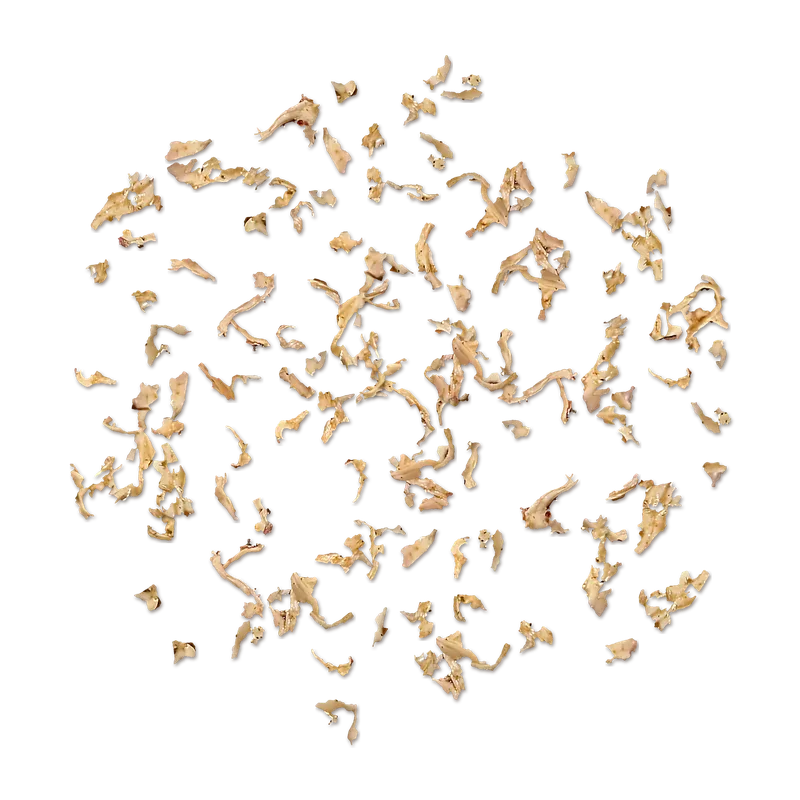
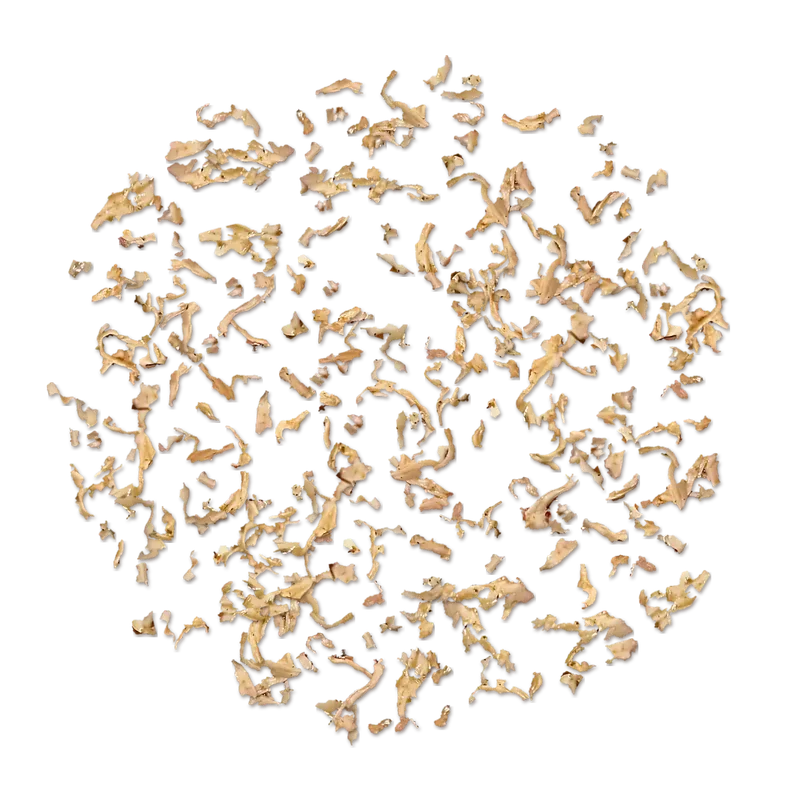
Pizza: capa nueva de pollo desmechado
Claude-Session: https://claude.ai/code/session_01DxqiBbKBv4wDbq6rgi9yCV

Changed region(s): [[0.0625, 0.0938, 0.9375, 0.9375]]

diff --git a/Pages/pizza.html b/Pages/pizza.html
@@ -7,8 +7,8 @@
 <link rel="icon" href="../IMG/Logo-taz.png" type="image/png">
 <title>Pizza · TAZ Fast Food</title>
 <link href="https://fonts.googleapis.com/css2?family=Anton&family=Nunito:wght@500;700;800&display=swap" rel="stylesheet">
-<link rel="stylesheet" href="../Styles/pizza.css?v=30">
-<link rel="stylesheet" href="../Styles/checkout.css?v=30">
+<link rel="stylesheet" href="../Styles/pizza.css?v=31">
+<link rel="stylesheet" href="../Styles/checkout.css?v=31">
 </head>
 <body>
 <header class="top">
@@ -72,16 +72,16 @@
     <section class="step">
       <h3><i>1</i><span id="espTitle">Especialidad</span></h3>
       <div class="opts opts-base">
-      <button class="op" type="button" data-g="base" data-i="0" data-img="../IMG/Pizzas/hawaiana.webp?v=30" data-pz="13,19,24" data-tp="🍍 🧀 🥓" aria-pressed="false"><em>🍕</em><span class="tx"><b>Hawaiana</b><small>Piña, queso rayado, jamón (opcional cerezas)</small></span><span class="pr">$13.00</span></button>
-      <button class="op" type="button" data-g="base" data-i="1" data-img="../IMG/Pizzas/pepperoni.webp?v=30" data-pz="13,19,24" data-tp="🔴 🧀 🥓" aria-pressed="false"><em>🍕</em><span class="tx"><b>Pepperoni</b><small>Pepperoni, queso y jamón</small></span><span class="pr">$13.00</span></button>
-      <button class="op" type="button" data-g="base" data-i="2" data-img="../IMG/Pizzas/tropical.webp?v=30" data-pz="15,22,26" data-tp="🍍 🍒 🍑 🥓 🧀" aria-pressed="false"><em>🍕</em><span class="tx"><b>Tropical</b><small>Piña, cereza, durazno, jamón, queso y salsa de la casa</small></span><span class="pr">$15.00</span></button>
-      <button class="op" type="button" data-g="base" data-i="3" data-img="../IMG/Pizzas/ay-dios-mio.webp?v=30" data-pz="15,22,28" data-tp="🍗 🍄 🧀" aria-pressed="false"><em>🍕</em><span class="tx"><b>Ay Dios Mío</b><small>Pollo desmechado, champiñones, jamón, queso rayado y salsa de la casa</small></span><span class="pr">$15.00</span></button>
-      <button class="op" type="button" data-g="base" data-i="4" data-img="../IMG/Pizzas/californiana.webp?v=30" data-pz="16,24,29" data-tp="🍗 🍄 🦐 🥓 🧀 🌶" aria-pressed="false"><em>🍕</em><span class="tx"><b>Californiana</b><small>Pollo desmechado, champiñones, camarones, jamón, pimentón rojo y verde, queso rayado y salsa de la casa</small></span><span class="pr">$16.00</span></button>
-      <button class="op" type="button" data-g="base" data-i="5" data-img="../IMG/Pizzas/mexicana.webp?v=30" data-pz="16,24,29" data-tp="🥩 🥓 🧀 🌶 🧅" aria-pressed="false"><em>🍕</em><span class="tx"><b>Mexicana</b><small>Carne desmechada, jamón, queso rayado, pimentón, cebolla, salsa picosa de la casa y tocineta</small></span><span class="pr">$16.00</span></button>
-      <button class="op" type="button" data-g="base" data-i="6" data-img="../IMG/Pizzas/camarones.webp?v=30" data-pz="20,26,32" data-tp="🦐 🥓 🧀 🌶" aria-pressed="false"><em>🍕</em><span class="tx"><b>Camarones</b><small>Camarones, jamón, queso rayado, pimentón y salsa de la casa</small></span><span class="pr">$20.00</span></button>
-      <button class="op" type="button" data-g="base" data-i="7" data-img="../IMG/Pizzas/la-4k.webp?v=30" data-pz="22,28,34" data-tp="🥓 🌭 🧀 🥩" aria-pressed="false"><em>🍕</em><span class="tx"><b>La 4K</b><small>Jamón, carne de res, pollo, chorizo, tocino y queso rayado</small></span><span class="pr">$22.00</span></button>
-      <button class="op" type="button" data-g="base" data-i="8" data-img="../IMG/Pizzas/legendaria.webp?v=30" data-pz="16,22,28" data-tp="🥩 🌽 🥓 🌶 🧀" aria-pressed="false"><em>🍕</em><span class="tx"><b>Legendaria</b><small>Carne molida, maíz, tocino, pimiento, jamón, queso y salsa de la casa</small></span><span class="pr">$16.00</span></button>
-      <button class="op cartel" type="button" data-g="base" data-i="9" data-img="../IMG/Pizzas/base-queso.webp?v=30" data-pz="10,15,19" data-custom="1" aria-pressed="false"><em><i class="blank" aria-hidden="true"></i></em><span class="tx"><span class="tag">¡Nueva!</span><b>Pizza a tu gusto</b><small>Empieza con una pizza en blanco (masa y queso) y ponle todos los ingredientes que quieras.</small></span><span class="pr">$10.00</span></button>
+      <button class="op" type="button" data-g="base" data-i="0" data-img="../IMG/Pizzas/hawaiana.webp?v=31" data-pz="13,19,24" data-tp="🍍 🧀 🥓" aria-pressed="false"><em>🍕</em><span class="tx"><b>Hawaiana</b><small>Piña, queso rayado, jamón (opcional cerezas)</small></span><span class="pr">$13.00</span></button>
+      <button class="op" type="button" data-g="base" data-i="1" data-img="../IMG/Pizzas/pepperoni.webp?v=31" data-pz="13,19,24" data-tp="🔴 🧀 🥓" aria-pressed="false"><em>🍕</em><span class="tx"><b>Pepperoni</b><small>Pepperoni, queso y jamón</small></span><span class="pr">$13.00</span></button>
+      <button class="op" type="button" data-g="base" data-i="2" data-img="../IMG/Pizzas/tropical.webp?v=31" data-pz="15,22,26" data-tp="🍍 🍒 🍑 🥓 🧀" aria-pressed="false"><em>🍕</em><span class="tx"><b>Tropical</b><small>Piña, cereza, durazno, jamón, queso y salsa de la casa</small></span><span class="pr">$15.00</span></button>
+      <button class="op" type="button" data-g="base" data-i="3" data-img="../IMG/Pizzas/ay-dios-mio.webp?v=31" data-pz="15,22,28" data-tp="🍗 🍄 🧀" aria-pressed="false"><em>🍕</em><span class="tx"><b>Ay Dios Mío</b><small>Pollo desmechado, champiñones, jamón, queso rayado y salsa de la casa</small></span><span class="pr">$15.00</span></button>
+      <button class="op" type="button" data-g="base" data-i="4" data-img="../IMG/Pizzas/californiana.webp?v=31" data-pz="16,24,29" data-tp="🍗 🍄 🦐 🥓 🧀 🌶" aria-pressed="false"><em>🍕</em><span class="tx"><b>Californiana</b><small>Pollo desmechado, champiñones, camarones, jamón, pimentón rojo y verde, queso rayado y salsa de la casa</small></span><span class="pr">$16.00</span></button>
+      <button class="op" type="button" data-g="base" data-i="5" data-img="../IMG/Pizzas/mexicana.webp?v=31" data-pz="16,24,29" data-tp="🥩 🥓 🧀 🌶 🧅" aria-pressed="false"><em>🍕</em><span class="tx"><b>Mexicana</b><small>Carne desmechada, jamón, queso rayado, pimentón, cebolla, salsa picosa de la casa y tocineta</small></span><span class="pr">$16.00</span></button>
+      <button class="op" type="button" data-g="base" data-i="6" data-img="../IMG/Pizzas/camarones.webp?v=31" data-pz="20,26,32" data-tp="🦐 🥓 🧀 🌶" aria-pressed="false"><em>🍕</em><span class="tx"><b>Camarones</b><small>Camarones, jamón, queso rayado, pimentón y salsa de la casa</small></span><span class="pr">$20.00</span></button>
+      <button class="op" type="button" data-g="base" data-i="7" data-img="../IMG/Pizzas/la-4k.webp?v=31" data-pz="22,28,34" data-tp="🥓 🌭 🧀 🥩" aria-pressed="false"><em>🍕</em><span class="tx"><b>La 4K</b><small>Jamón, carne de res, pollo, chorizo, tocino y queso rayado</small></span><span class="pr">$22.00</span></button>
+      <button class="op" type="button" data-g="base" data-i="8" data-img="../IMG/Pizzas/legendaria.webp?v=31" data-pz="16,22,28" data-tp="🥩 🌽 🥓 🌶 🧀" aria-pressed="false"><em>🍕</em><span class="tx"><b>Legendaria</b><small>Carne molida, maíz, tocino, pimiento, jamón, queso y salsa de la casa</small></span><span class="pr">$16.00</span></button>
+      <button class="op cartel" type="button" data-g="base" data-i="9" data-img="../IMG/Pizzas/base-queso.webp?v=31" data-pz="10,15,19" data-custom="1" aria-pressed="false"><em><i class="blank" aria-hidden="true"></i></em><span class="tx"><span class="tag">¡Nueva!</span><b>Pizza a tu gusto</b><small>Empieza con una pizza en blanco (masa y queso) y ponle todos los ingredientes que quieras.</small></span><span class="pr">$10.00</span></button>
       </div>
     </section>
     <section class="step">
@@ -95,14 +95,14 @@
       <div class="catpanel" data-cat="pro" hidden>
         <div class="cathead"><button class="back" type="button">‹ Volver</button><b>🍗 Proteínas</b></div>
         <div class="opts opts-ex">
-          <button class="op" type="button" data-g="ex" data-i="0" data-layer="../IMG/Toppings/capas/queso.webp?v=30" data-p="2" data-cat="pro" aria-pressed="false"><em>🧀</em><span class="tx"><b>Queso extra</b></span><span class="pr">+$2.00</span></button>
-          <button class="op" type="button" data-g="ex" data-i="1" data-layer="../IMG/Toppings/capas/jamon.webp?v=30" data-p="2" data-cat="pro" aria-pressed="false"><em>🍖</em><span class="tx"><b>Jamón</b></span><span class="pr">+$2.00</span></button>
+          <button class="op" type="button" data-g="ex" data-i="0" data-layer="../IMG/Toppings/capas/queso.webp?v=31" data-p="2" data-cat="pro" aria-pressed="false"><em>🧀</em><span class="tx"><b>Queso extra</b></span><span class="pr">+$2.00</span></button>
+          <button class="op" type="button" data-g="ex" data-i="1" data-layer="../IMG/Toppings/capas/jamon.webp?v=31" data-p="2" data-cat="pro" aria-pressed="false"><em>🍖</em><span class="tx"><b>Jamón</b></span><span class="pr">+$2.00</span></button>
           <button class="op" type="button" data-g="ex" data-i="2" data-p="2" data-cat="pro" aria-pressed="false"><em>🥓</em><span class="tx"><b>Tocineta</b></span><span class="pr">+$2.00</span></button>
-          <button class="op" type="button" data-g="ex" data-i="3" data-layer="../IMG/Toppings/capas/pepperoni.webp?v=30" data-p="2" data-cat="pro" aria-pressed="false"><em>🔴</em><span class="tx"><b>Pepperoni</b></span><span class="pr">+$2.00</span></button>
-          <button class="op" type="button" data-g="ex" data-i="4" data-layer="../IMG/Toppings/capas/pollo-desmechado.webp?v=30" data-p="2.5" data-cat="pro" aria-pressed="false"><em>🍗</em><span class="tx"><b>Pollo desmechado</b></span><span class="pr">+$2.50</span></button>
+          <button class="op" type="button" data-g="ex" data-i="3" data-layer="../IMG/Toppings/capas/pepperoni.webp?v=31" data-p="2" data-cat="pro" aria-pressed="false"><em>🔴</em><span class="tx"><b>Pepperoni</b></span><span class="pr">+$2.00</span></button>
+          <button class="op" type="button" data-g="ex" data-i="4" data-layer="../IMG/Toppings/capas/pollo-desmechado.webp?v=31" data-p="2.5" data-cat="pro" aria-pressed="false"><em>🍗</em><span class="tx"><b>Pollo desmechado</b></span><span class="pr">+$2.50</span></button>
           <button class="op" type="button" data-g="ex" data-i="5" data-p="2.5" data-cat="pro" aria-pressed="false"><em>🥩</em><span class="tx"><b>Carne desmechada</b></span><span class="pr">+$2.50</span></button>
-          <button class="op" type="button" data-g="ex" data-i="6" data-layer="../IMG/Toppings/capas/carne-molida.webp?v=30" data-p="2.5" data-cat="pro" aria-pressed="false"><em>🧆</em><span class="tx"><b>Carne molida</b></span><span class="pr">+$2.50</span></button>
-          <button class="op" type="button" data-g="ex" data-i="7" data-layer="../IMG/Toppings/capas/chorizo.webp?v=30" data-p="2" data-cat="pro" aria-pressed="false"><em><img class="ic" src="../IMG/Toppings/chorizo.webp?v=30" alt=""></em><span class="tx"><b>Chorizo</b></span><span class="pr">+$2.00</span></button>
+          <button class="op" type="button" data-g="ex" data-i="6" data-layer="../IMG/Toppings/capas/carne-molida.webp?v=31" data-p="2.5" data-cat="pro" aria-pressed="false"><em>🧆</em><span class="tx"><b>Carne molida</b></span><span class="pr">+$2.50</span></button>
+          <button class="op" type="button" data-g="ex" data-i="7" data-layer="../IMG/Toppings/capas/chorizo.webp?v=31" data-p="2" data-cat="pro" aria-pressed="false"><em><img class="ic" src="../IMG/Toppings/chorizo.webp?v=31" alt=""></em><span class="tx"><b>Chorizo</b></span><span class="pr">+$2.00</span></button>
           <button class="op" type="button" data-g="ex" data-i="8" data-p="3.5" data-cat="pro" aria-pressed="false"><em>🦐</em><span class="tx"><b>Camarones</b></span><span class="pr">+$3.50</span></button>
         </div>
       </div>
@@ -150,9 +150,9 @@
 </aside>
 <template id="tpl-item"><div class="it"><div class="row"><b class="nm"></b><span class="pt"></span></div><p class="ln"></p><div class="row"><div class="qty"><button data-c="-1" aria-label="Menos">−</button><span class="qn"></span><button data-c="1" aria-label="Más">+</button></div><button class="x" data-c="del">Quitar</button></div></div></template>
 <div class="toast" id="toast" role="status">Agregado al carrito</div>
-<script src="../JS/cart.js?v=30"></script>
-<script src="../JS/pizza.js?v=30"></script>
-<script src="../JS/toppings.js?v=30"></script>
-<script src="../JS/checkout.js?v=30"></script>
+<script src="../JS/cart.js?v=31"></script>
+<script src="../JS/pizza.js?v=31"></script>
+<script src="../JS/toppings.js?v=31"></script>
+<script src="../JS/checkout.js?v=31"></script>
 </body>
 </html>
